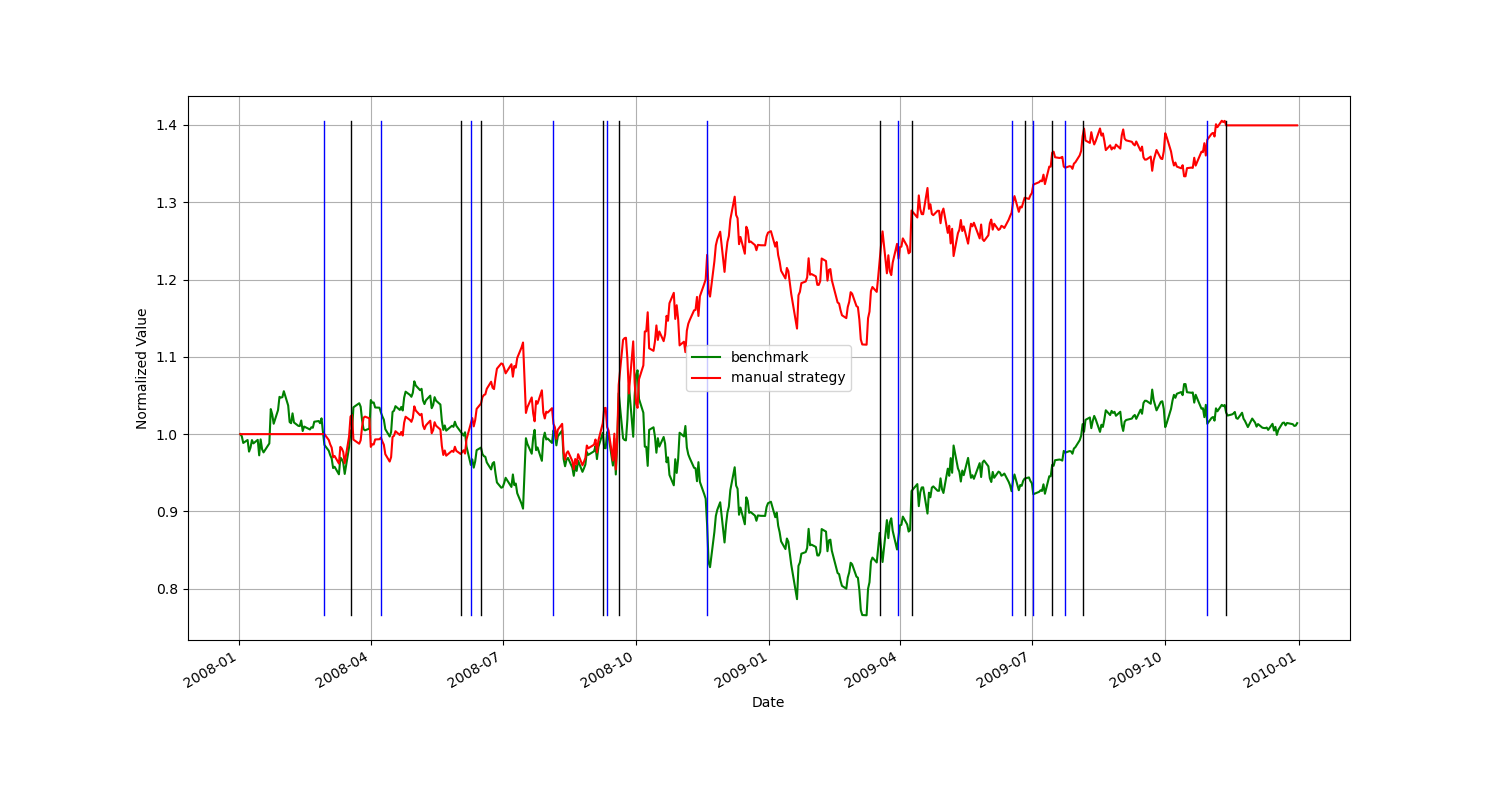
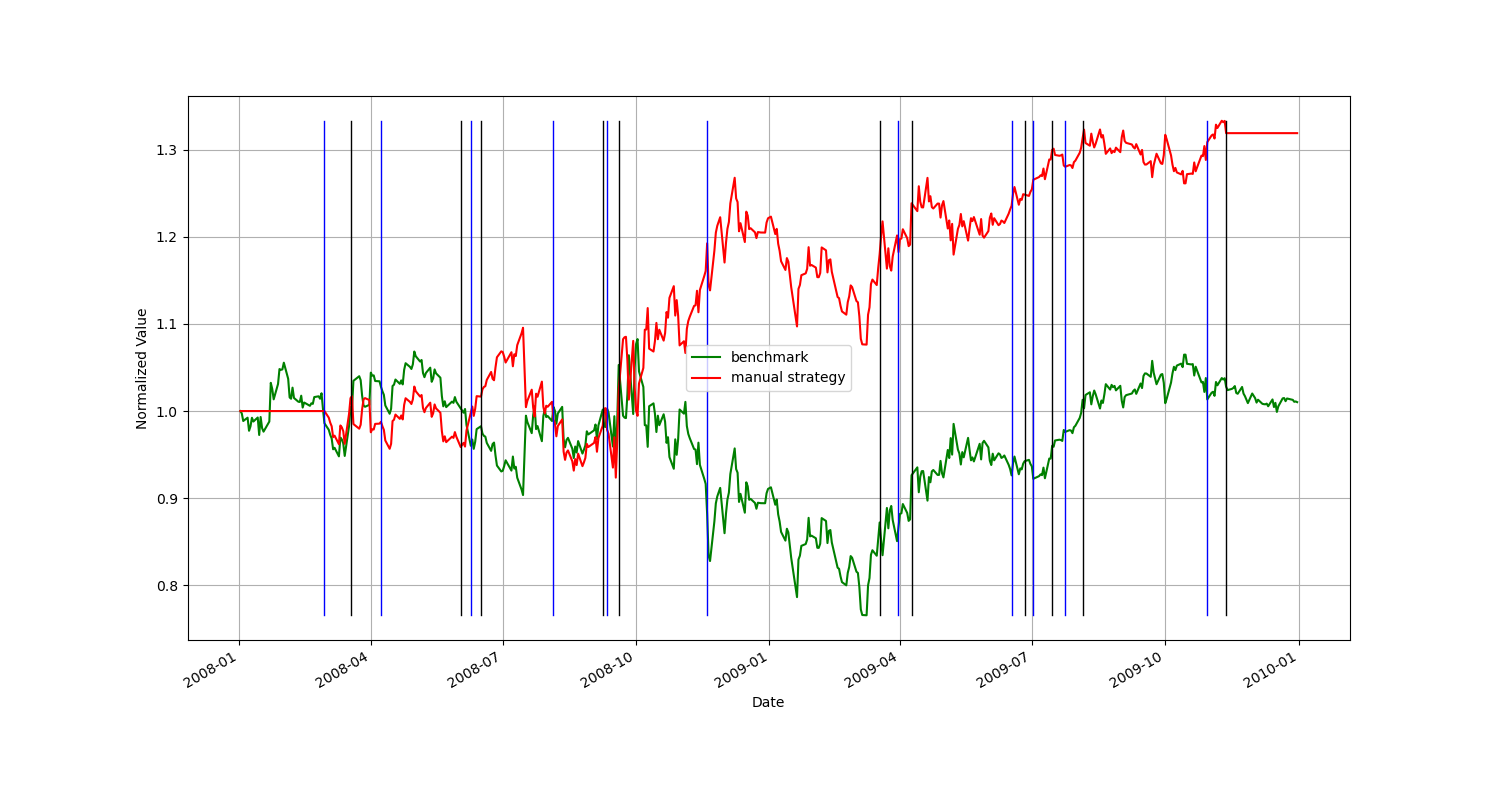
working again, proj8

diff --git a/strategy_evaluation/StrategyLearner.py b/strategy_evaluation/StrategyLearner.py
@@ -59,16 +59,15 @@ class StrategyLearner(object):
         """  		  	   		     		  		  		    	 		 		   		 		  
         Constructor method  		  	   		     		  		  		    	 		 		   		 		  
         """
-        self.num_bins = 3
+        # self.num_bins = 3
 
         self.verbose = verbose  		  	   		     		  		  		    	 		 		   		 		  
         self.impact = impact  		  	   		     		  		  		    	 		 		   		 		  
         self.commission = commission
-        # self.learner = q.QLearner(alpha=0.2, rar=0.9, radr=0.999, num_states=self.num_bins ** 4, num_actions=3, dyna=0)
-        # self.learner = q.QLearner(alpha=0.2, gamma=0.5, rar=0.5, radr=0.99, num_states=self.num_bins ** 3, num_actions=3, dyna=0)
 
-        # self.learner = q.QLearner(num_states=self.num_bins**2 * 3, num_actions=2, dyna=1000)
-        self.learner = q.QLearner(alpha=0.5, gamma=0.5, rar=0.5, radr=0.99, num_states=self.num_bins ** 2 * 3 * 2, num_actions=3, dyna=1000)
+        # self.learner = q.QLearner(alpha=0.5, gamma=0.5, rar=0.5, radr=0.99, num_states=5 ** 3, num_actions=3, dyna=0)
+        # self.learner = q.QLearner(alpha=0.5, gamma=0.3, rar=0.8, radr=0.99, num_states=5 ** 3, num_actions=3)
+        self.learner = q.QLearner(alpha=0.5, gamma=0.3, rar=0.8, radr=0.99, num_states=5 ** 3, num_actions=3, dyna=0)
 
         self.sym = None
         self.price_data = None
@@ -76,8 +75,7 @@ class StrategyLearner(object):
         self.sma50 = None
         self.bb_lower, self.bb_upper = None, None
         self.mm = None
-        # self.vol = None
-        self.position = 0
+        self.position = 1000
 
         self.states = None
 
@@ -88,66 +86,32 @@ class StrategyLearner(object):
         self.sma50 = indicators.sma(self.price_data, window_size=50)
         self.bb_lower, self.bb_upper = indicators.bollinger_bands(self.price_data)
         self.mm = indicators.momentum(self.price_data)
-        # self.vol = indicators.volatility(self.price_data)
 
-        # sma20_50 = pd.qcut(self.sma20['SMA'] - self.sma50['SMA'], self.num_bins, labels=False)
-        # sma50_20 = pd.qcut(self.sma50['SMA'] - self.sma20['SMA'], self.num_bins, labels=False)
+        sma = pd.cut(self.sma20['SMA'] - self.sma50['SMA'], 5, labels=False)
 
-        sma20_val_prev = np.nan
-        sma50_val_prev = np.nan
-        sma = self.sma20
-        for td in self.sma20.iterrows():
-            date = td[0]
-            sma20_val = self.sma20['SMA'][date]
-            sma50_val = self.sma50['SMA'][date]
-            # if date - dt.timedelta(days=1) in self.sma20['SMA']:
-            #     sma20_val_prev = self.sma20['SMA'][date - dt.timedelta(days=1)]
-            # else:
-            #     sma20_val_prev = np.nan
-            # if date - dt.timedelta(days=1) in self.sma50['SMA']:
-            #     sma50_val_prev = self.sma50['SMA'][date - dt.timedelta(days=1)]
-            # else:
-            #     sma50_val_prev = np.nan
+        bb_percent = (self.price_data[self.sym] - self.bb_lower['bb_lower']) / (self.bb_upper['bb_upper'] - self.bb_lower['bb_lower'])
+        # bbp = pd.cut((self.price_data[self.sym] - self.bb_lower['bb_lower']) / (self.bb_upper['bb_upper'] - self.bb_lower['bb_lower']), self.num_bins, labels=False)
+        # bbp = np.digitize((self.price_data[self.sym] - self.bb_lower['bb_lower']) / (self.bb_upper['bb_upper'] - self.bb_lower['bb_lower']), [-0.01, 1.01])
+        bbp = pd.cut(bb_percent, 5, labels=False)
 
-            if np.isnan(sma20_val) or np.isnan(sma50_val) or np.isnan(sma20_val_prev) or np.isnan(sma50_val_prev):
-                sma['SMA'][date] = np.nan
-            elif sma20_val > sma50_val and sma20_val_prev < sma50_val_prev:
-                sma['SMA'][date] = 1
-            elif sma20_val < sma50_val and sma20_val_prev > sma50_val_prev:
-                sma['SMA'][date] = 2
-            else:
-                sma['SMA'][date] = 0
+        # mm = pd.cut(self.mm['momentum'], self.num_bins, labels=False)
+        # mm = np.digitize(self.mm['momentum'], [-2.5, 2.5])
+        mm = pd.cut(self.mm['momentum'], 5, labels=False)
 
-            sma20_val_prev = sma20_val
-            sma50_val_prev = sma50_val
-
-        # bbp = pd.qcut((self.price_data[self.sym] - self.bb_lower['bb_lower']) / (self.bb_upper['bb_upper'] - self.bb_lower['bb_lower']), self.num_bins, labels=False)
-        bbp = pd.cut((self.price_data[self.sym] - self.bb_lower['bb_lower']) / (self.bb_upper['bb_upper'] - self.bb_lower['bb_lower']), self.num_bins, labels=False)
-
-        # bb_upper = pd.qcut(self.price_data[self.sym] - self.bb_upper['bb_upper'], self.num_bins, labels=False)
-        # bb_lower = pd.qcut(self.price_data[self.sym] - self.bb_lower['bb_lower'], self.num_bins, labels=False)
-
-        # self.price_data = pd.qcut(self.price_data[self.sym], self.num_bins, labels=False)
-        # self.sma20 = pd.qcut(self.sma20['SMA'], self.num_bins, labels=False)
-        # self.sma50 = pd.qcut(self.sma50['SMA'], self.num_bins, labels=False)
-        # self.bb_lower = pd.qcut(self.bb_lower['bb_lower'], self.num_bins, labels=False)
-        # self.bb_upper = pd.qcut(self.bb_upper['bb_upper'], self.num_bins, labels=False)
-        # mm = pd.qcut(self.mm['momentum'], self.num_bins, labels=False)
-        mm = pd.cut(self.mm['momentum'], self.num_bins, labels=False)
-
-        # self.states = sma20_50*3**4 + sma50_20*3**3 + bb_lower*3**2 + bb_upper*3 + self.mm
-        # self.states = sma['SMA']*3**3 + bb_upper*3**2 + bb_lower*3**1 + self.mm
-        self.states = sma['SMA']*3*self.num_bins + bbp*self.num_bins + mm
+        self.states = sma*5**2 + bbp*5 + mm
 
     def update_position(self, action):
-        if action == 0:
-            trade = -1000 - 1000 * self.position
-            self.position = 0
-        elif action == 1:
-            trade = 1000 - 1000 * self.position
-            self.position = 1
-        else:
-            trade = 0
+        # action: [0, 1, 2] = [hold, sell, buy]
+        # position: [-1000, 1000] = [short, long]
+
+        if action == 0: # no trade
+            new_pos = self.position
+        elif action == 1: # sell
+            new_pos = -1000
+        else: # buy
+            new_pos = 1000
+        trade = new_pos - self.position
+        self.position = new_pos
         return trade
 
     # this method should create a QLearner, and train it for trading  		  	   		     		  		  		    	 		 		   		 		  
@@ -174,23 +138,29 @@ class StrategyLearner(object):
         # add your code to do learning here
         price_data = ut.get_data([symbol], pd.date_range(sd, ed), addSPY=True)
         self.setup(pd.DataFrame(price_data[symbol]))
+        self.position = 1000
 
         states_df = pd.DataFrame(self.states.loc[self.states.first_valid_index():])
+        states_df.columns = [0]
         p = price_data[self.sym][self.states.first_valid_index()]
-        a = 2
-        for row in states_df.iterrows():
-            date = row[0]
-            p_prime = price_data[self.sym][date]
-            delta = p_prime - p
-            r = (self.position*2-1) * delta
-            if a != 2:  # trade made, pay fees
-                r -= self.commission
-                r -= abs(self.impact * p_prime)
 
-            s = int(self.states[date]) + (self.position * self.num_bins ** 2 * 3)
-            a = self.learner.query(s, r)
-            self.update_position(a)
-            p = p_prime
+        for i in range(0, 30):
+            a = self.learner.querysetstate(int(states_df[0][0]))
+            trade = self.update_position(a)
+
+            for row in states_df.iterrows():
+                date = row[0]
+                p_prime = price_data[self.sym][date]
+                delta = p_prime - p
+                r = self.position * delta
+                if trade != 0:  # trade made, pay fees
+                    r -= self.commission
+                    r -= abs(self.impact * p_prime)
+
+                s = int(self.states[date])
+                a = self.learner.query(s, r)
+                trade = self.update_position(a)
+                p = p_prime
   		  	   		     		  		  		    	 		 		   		 		  
     # this method should use the existing policy and test it against new data  		  	   		     		  		  		    	 		 		   		 		  
     def testPolicy(  		  	   		     		  		  		    	 		 		   		 		  
@@ -217,7 +187,8 @@ class StrategyLearner(object):
             long so long as net holdings are constrained to -1000, 0, and 1000.  		  	   		     		  		  		    	 		 		   		 		  
         :rtype: pandas.DataFrame  		  	   		     		  		  		    	 		 		   		 		  
         """
-        output = {'Date': [], 'Trade': []}
+        output = {'Date': [self.states.first_valid_index()], 'Trade': [1000]}
+        self.position = 1000
 
         price_data = ut.get_data([symbol], pd.date_range(sd, ed), addSPY=True)
         self.setup(pd.DataFrame(price_data[symbol]))
@@ -235,10 +206,10 @@ class StrategyLearner(object):
                 date = td[0]
                 s_prime = int(self.states[date])
                 a = self.learner.querysetstate(s_prime)
-                trade = 1 * self.update_position(a)
+                trade = self.update_position(a)
 
                 if trade != 0:
-                    output['Date'].append(date - dt.timedelta(days=1))
+                    output['Date'].append(date)
                     output['Trade'].append(trade)
 
 

diff --git a/strategy_evaluation/testproject.py b/strategy_evaluation/testproject.py
@@ -13,34 +13,34 @@ def author():
 
 if __name__ == "__main__":
 	experiment1.run()
-	# experiment2.run()
-	# man = ms.ManualStrategy()
-	# in_test, in_ret_bm, in_ret_man = man.in_sample_test()
-	# out_test, out_ret_bm, out_ret_man = man.out_sample_test()
-	#
-	# print(['In-sample, benchmark cumulative return: ', in_ret_bm[0]])
-	# print(['In-sample, benchmark mean daily return: ', in_ret_bm[1]])
-	# print(['In-sample, benchmark std. dev. of daily return: ', in_ret_bm[2]])
-	# print('')
-	# print(['In-sample, manual strategy cumulative return: ', in_ret_man[0]])
-	# print(['In-sample, manual strategy mean daily return: ', in_ret_man[1]])
-	# print(['In-sample, manual strategy std. dev. of daily return: ', in_ret_man[2]])
-	# print('')
-	# print(['Out-of-sample, benchmark cumulative return: ', out_ret_bm[0]])
-	# print(['Out-of-sample, benchmark mean daily return: ', out_ret_bm[1]])
-	# print(['Out-of-sample, benchmark std. dev. of daily return: ', out_ret_bm[2]])
-	# print('')
-	# print(['Out-of-sample, manual strategy cumulative return: ', out_ret_man[0]])
-	# print(['Out-of-sample, manual strategy mean daily return: ', out_ret_man[1]])
-	# print(['Out-of-sample, manual strategy std. dev. of daily return: ', out_ret_man[2]])
-	#
-	# in_test_val = in_test.values
-	# out_test_val = out_test.values
-	# plt.clf()
-	# plt.figure(figsize=(15,8))
-	# plt.plot(in_test_val)
-	# plt.plot(out_test_val)
-	# plt.legend(['In-sample performance', 'Out-of-sample performance'])
-	# plt.xlabel('Time from start [day]')
-	# plt.ylabel('Normalized Value (relative to benchmark)')
-	# plt.savefig('in_out_comparison.png')
+	experiment2.run()
+	man = ms.ManualStrategy()
+	in_test, in_ret_bm, in_ret_man = man.in_sample_test()
+	out_test, out_ret_bm, out_ret_man = man.out_sample_test()
+
+	print(['In-sample, benchmark cumulative return: ', in_ret_bm[0]])
+	print(['In-sample, benchmark mean daily return: ', in_ret_bm[1]])
+	print(['In-sample, benchmark std. dev. of daily return: ', in_ret_bm[2]])
+	print('')
+	print(['In-sample, manual strategy cumulative return: ', in_ret_man[0]])
+	print(['In-sample, manual strategy mean daily return: ', in_ret_man[1]])
+	print(['In-sample, manual strategy std. dev. of daily return: ', in_ret_man[2]])
+	print('')
+	print(['Out-of-sample, benchmark cumulative return: ', out_ret_bm[0]])
+	print(['Out-of-sample, benchmark mean daily return: ', out_ret_bm[1]])
+	print(['Out-of-sample, benchmark std. dev. of daily return: ', out_ret_bm[2]])
+	print('')
+	print(['Out-of-sample, manual strategy cumulative return: ', out_ret_man[0]])
+	print(['Out-of-sample, manual strategy mean daily return: ', out_ret_man[1]])
+	print(['Out-of-sample, manual strategy std. dev. of daily return: ', out_ret_man[2]])
+
+	in_test_val = in_test.values
+	out_test_val = out_test.values
+	plt.clf()
+	plt.figure(figsize=(15,8))
+	plt.plot(in_test_val)
+	plt.plot(out_test_val)
+	plt.legend(['In-sample performance', 'Out-of-sample performance'])
+	plt.xlabel('Time from start [day]')
+	plt.ylabel('Normalized Value (relative to benchmark)')
+	plt.savefig('in_out_comparison.png')
